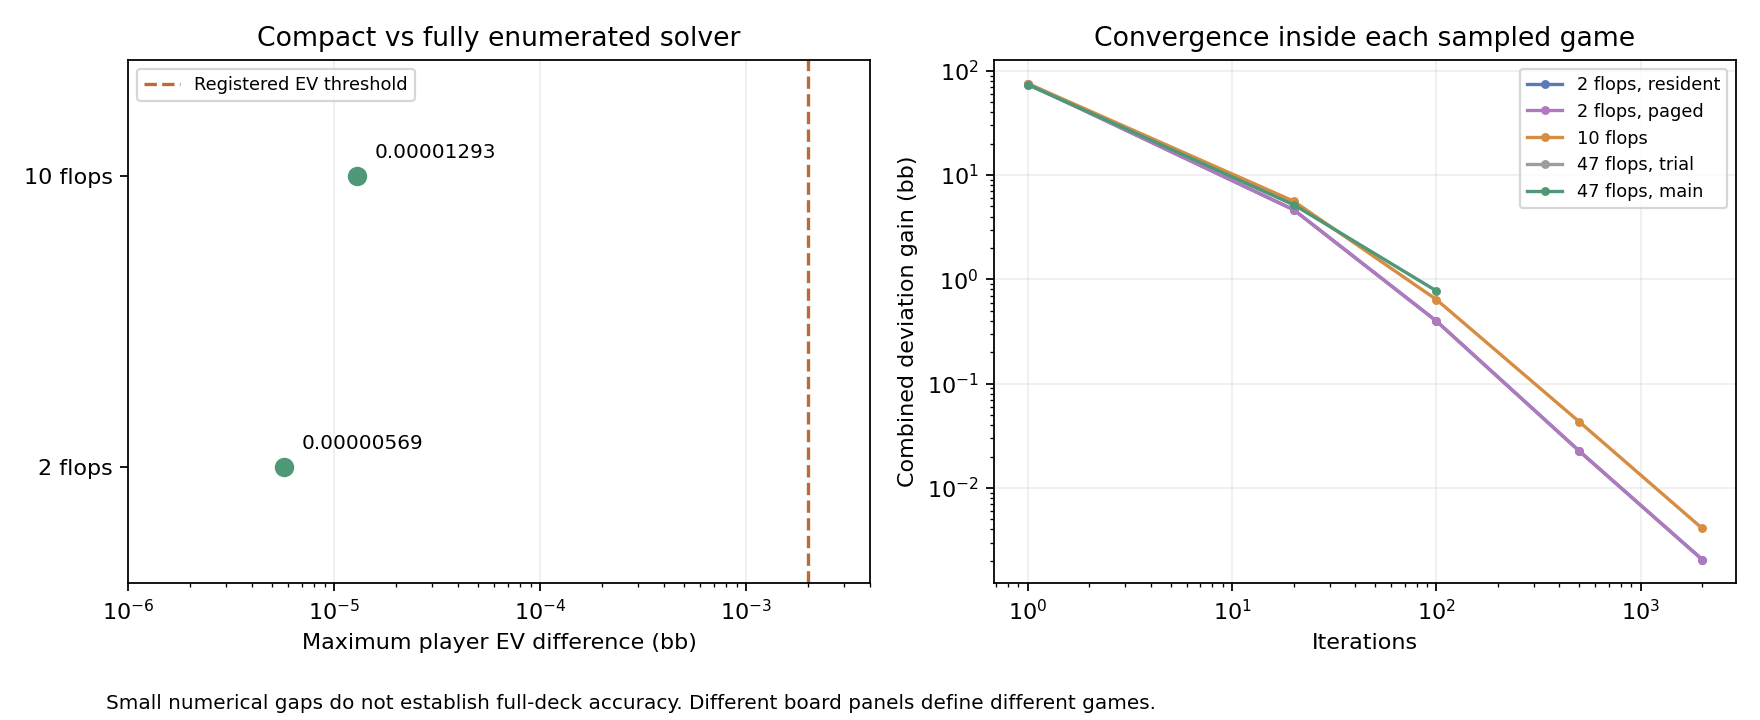
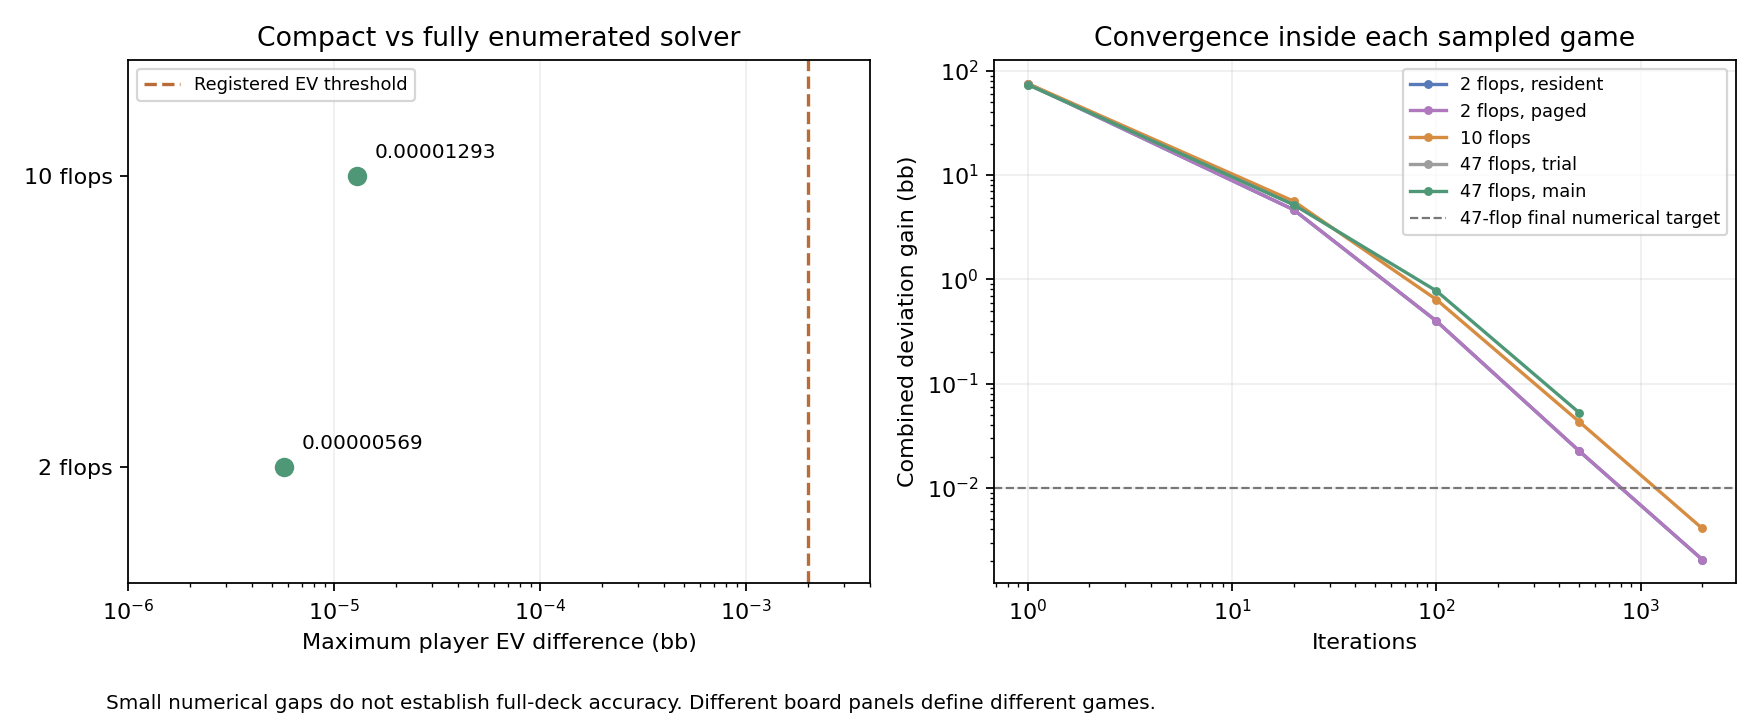
research: audit and publish 500-iteration reference checkpoint

diff --git a/tools/research/overnight_reference_report.py b/tools/research/overnight_reference_report.py
@@ -69,6 +69,7 @@ def run():
             records=r['records']
             axes[1].loglog([x['iteration'] for x in records],[x['evaluation']['gap_total'] for x in records],
                           marker='o',markersize=3,label=name,color=color)
+    axes[1].axhline(.01,color='#777777',linestyle='--',linewidth=1,label='47-flop final numerical target')
     axes[1].set(xlabel='Iterations',ylabel='Combined deviation gain (bb)',title='Convergence inside each sampled game')
     axes[1].legend(fontsize=8);axes[1].grid(alpha=.2)
     fig.text(.06,.015,'Small numerical gaps do not establish full-deck accuracy. Different board panels define different games.',fontsize=9)
@@ -167,7 +168,9 @@ def run():
             '', '[Paging protocol](PAGING-PROTOCOL.md) · [Reserved-board protocol](HOLDOUT-PROTOCOL.md) · '
             '[95-board selection](VALIDATION95-PROTOCOL.md) · [Overnight registration](OVERNIGHT-RUN-PROTOCOL.md) · '
             '[Transfer controls](TRANSFER-CONTROLS.md) · [Hand-level decision diagnostics](DECISION-DIAGNOSTICS.md) · '
-            '[Rare-branch reach audit](REACH-DIAGNOSTICS.md) · [Storage screen](STORAGE-SCREEN.md) · '
+            '[Rare-branch reach audit](REACH-DIAGNOSTICS.md) · [Entry-support audit](ENTRY-SUPPORT-AUDIT.md) · '
+            '[Per-board residual diagnostics](BOARD-RESIDUAL-DIAGNOSTICS.md) · '
+            '[Turn storage screen](STORAGE-SCREEN.md) · [Full-flop storage results](FLOP-STORAGE-RESULTS.md) · '
             '[Earlier coverage findings](../integrated-coverage-20260919/RESULTS.md)']
     (OUT/'RESULTS.md').write_text('\n'.join(lines)+'\n',encoding='utf-8')
 

diff --git a/research/preflop-evolution/representative-coverage-20260919/RESULTS.md b/research/preflop-evolution/representative-coverage-20260919/RESULTS.md
@@ -1,6 +1,6 @@
 # Overnight reference study
 
-Updated 2026-09-19T10:23:12.456441+00:00.
+Updated 2026-09-19T11:39:20.280048+00:00.
 
 Research only. Production port 56708 has not been changed by this work.
 
@@ -24,7 +24,7 @@ Connected two-flop paging: passed; all checkpoint evaluations identical: True. S
 
 The unchanged 47-flop candidate improves pocket-pair opportunity coverage over the ten-flop development panel. It remains an approximation; more representative chance coverage and unseen-board tests are needed before making accuracy claims.
 Feasibility trial: latest recorded iteration 20, gap 5.206158 bb, elapsed 405.4 seconds. A checkpoint alone does not prove completion.
-Main 47-flop solve: latest recorded iteration 100, gap 0.775485 bb, elapsed 1648.5 seconds. A checkpoint alone does not prove completion.
+Main 47-flop solve: latest recorded iteration 500, gap 0.052653 bb, elapsed 7758.8 seconds. A checkpoint alone does not prove completion.
 
 Last recorded validation-queue stage: `complete-awaiting-trial-review`. Check the actual process before treating that stage as live.
 Last recorded transfer-control stage: `complete-passed`; overnight sequence: `report47-reference-2000`.
@@ -50,4 +50,4 @@ Values are bb at the same entering two-player decision. Full deviation gain is a
 
 ![Chance coverage before reserved strategic evaluation](independent-coverage.png)
 
-[Paging protocol](PAGING-PROTOCOL.md) · [Reserved-board protocol](HOLDOUT-PROTOCOL.md) · [95-board selection](VALIDATION95-PROTOCOL.md) · [Overnight registration](OVERNIGHT-RUN-PROTOCOL.md) · [Transfer controls](TRANSFER-CONTROLS.md) · [Hand-level decision diagnostics](DECISION-DIAGNOSTICS.md) · [Rare-branch reach audit](REACH-DIAGNOSTICS.md) · [Storage screen](STORAGE-SCREEN.md) · [Earlier coverage findings](../integrated-coverage-20260919/RESULTS.md)
+[Paging protocol](PAGING-PROTOCOL.md) · [Reserved-board protocol](HOLDOUT-PROTOCOL.md) · [95-board selection](VALIDATION95-PROTOCOL.md) · [Overnight registration](OVERNIGHT-RUN-PROTOCOL.md) · [Transfer controls](TRANSFER-CONTROLS.md) · [Hand-level decision diagnostics](DECISION-DIAGNOSTICS.md) · [Rare-branch reach audit](REACH-DIAGNOSTICS.md) · [Entry-support audit](ENTRY-SUPPORT-AUDIT.md) · [Per-board residual diagnostics](BOARD-RESIDUAL-DIAGNOSTICS.md) · [Turn storage screen](STORAGE-SCREEN.md) · [Full-flop storage results](FLOP-STORAGE-RESULTS.md) · [Earlier coverage findings](../integrated-coverage-20260919/RESULTS.md)

diff --git a/research/preflop-evolution/OVERNIGHT-20260919.md b/research/preflop-evolution/OVERNIGHT-20260919.md
@@ -644,3 +644,21 @@ input, not correctness of the original entry ranges, rare-hand play or
 equilibrium strategy stability. Do not alter the current cutoff or frozen
 protocol from these descriptive results. Main47 remains active at this
 checkpoint, with100 as its last written iteration.
+
+## 500-iteration reference checkpoint passed accounting
+
+At21:07 Adelaide the main run wrote iteration500: combined full deviation
+0.0526529724bb, elapsed7758.827s. It is still above the registered0.01bb
+final gate and remains incomplete. Do not use500 as the frozen transfer
+source. All registered independent accounting checks pass across the four
+recorded checkpoints; max cash error1.9549e-7bb, terminal probability
+error1.3997e-8, normalizer relative error2.2595e-9. Evidence and canonical
+record hash: report47-checkpoint500-review.json. Audit session80209 exited0.
+
+The100-to500 slope is15.2757seconds/iteration. Linear extrapolation gives
+30672.4seconds total (about8h31m, roughly03:29 Adelaide finish); this is an
+estimate, not a convergence forecast or guarantee. Independent transfer
+still waits for a qualified2000 result. Queue66965/69280 and child34036
+remain active. Watcher73792 refreshed the graph automatically with no
+render failures. Both graph and report remain explicit about incomplete
+numerical convergence and absent held-out strategic outcomes.
